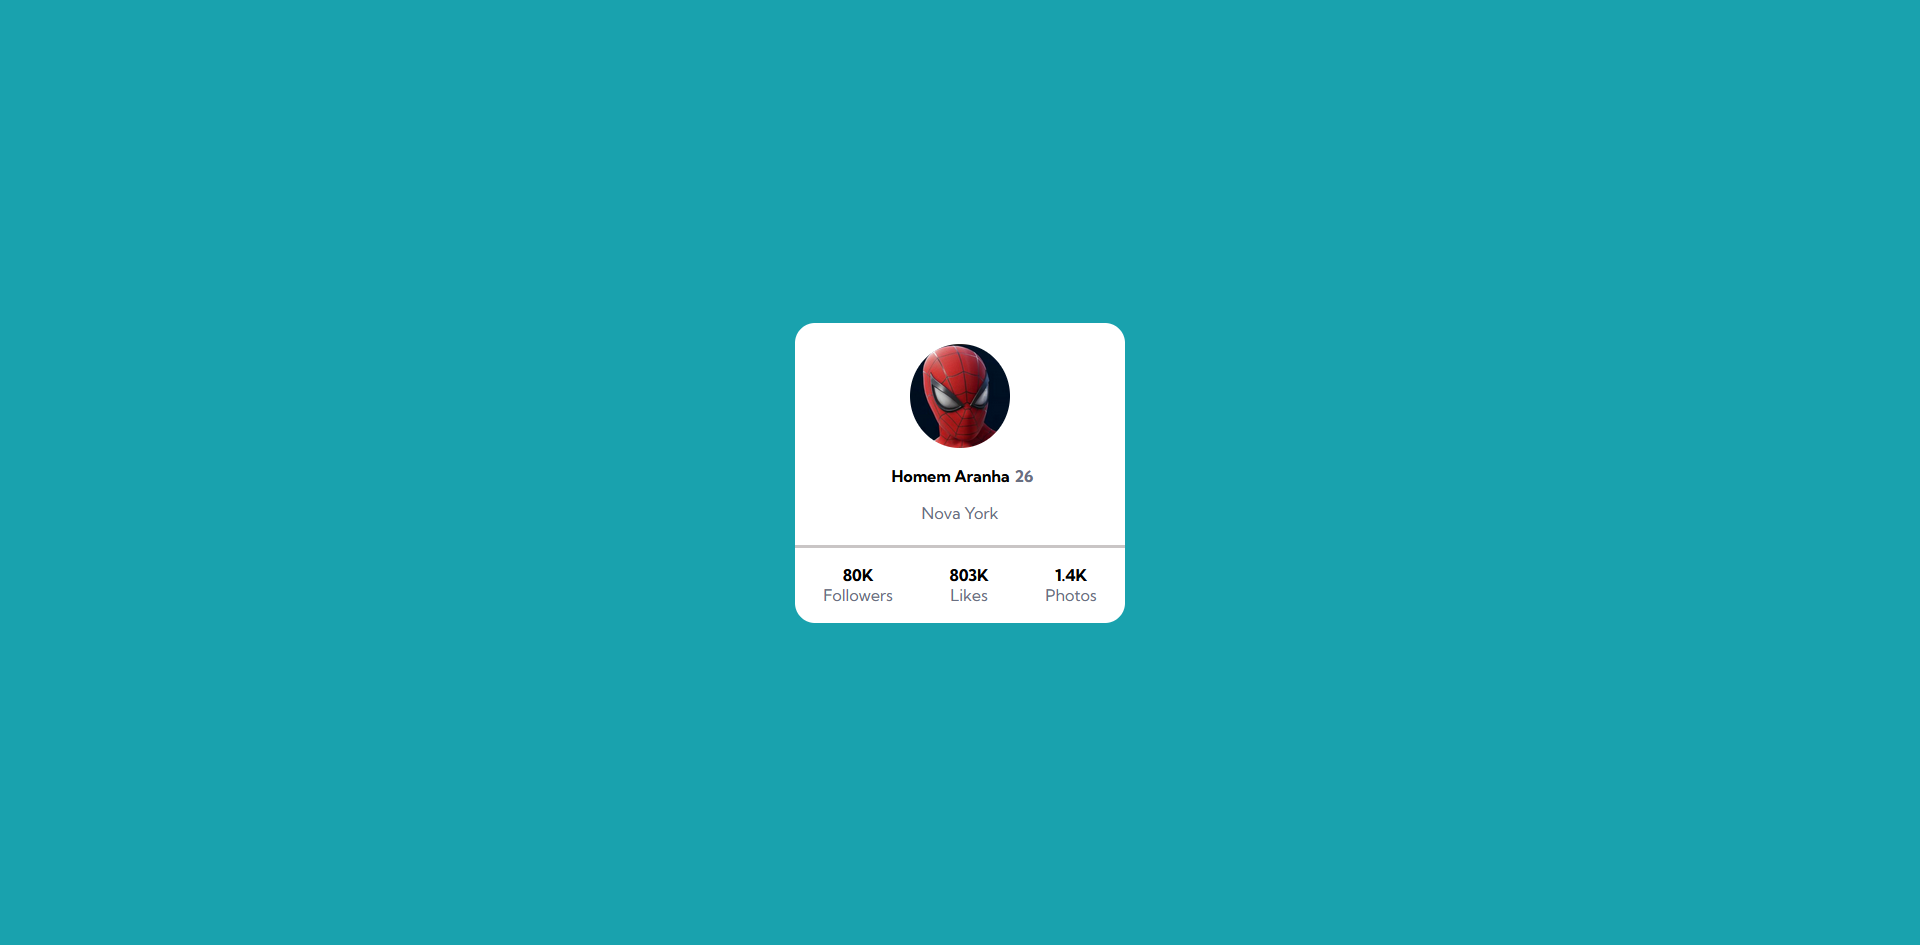
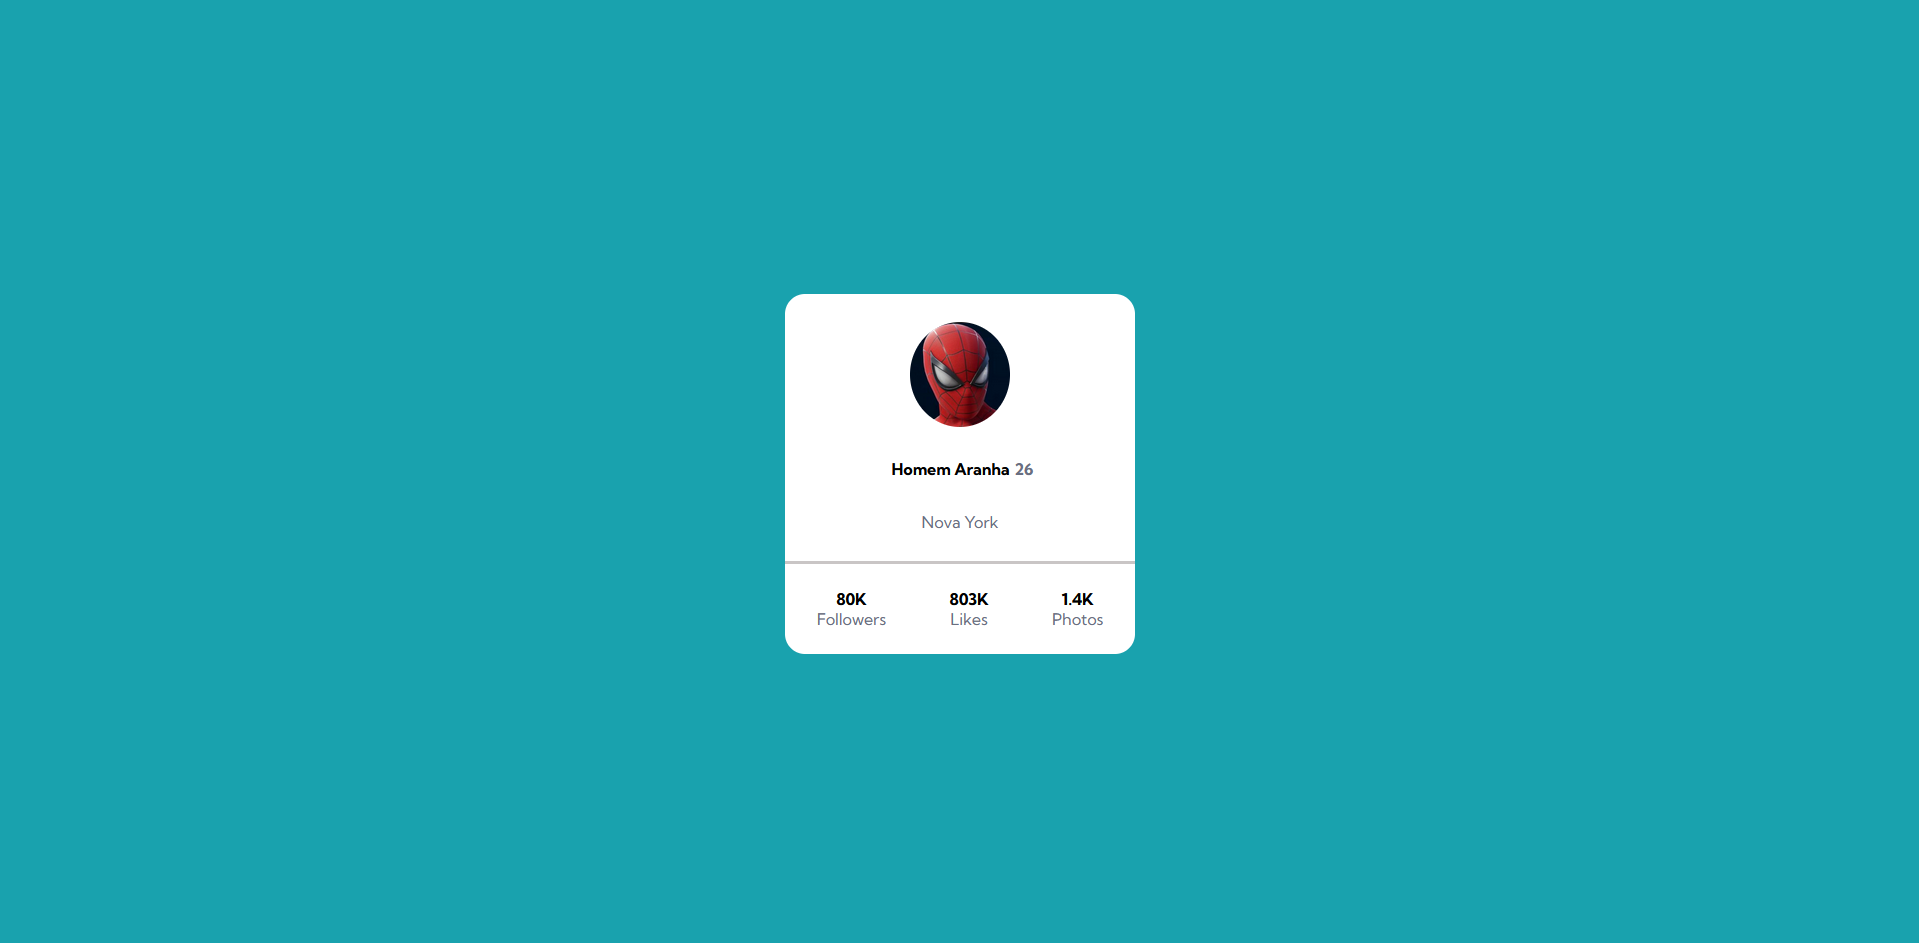
Alteração do tamanho do card, alteração das imagens e descrição da tarefa no README.

Changed region(s): [[0.3997, 0.3075, 0.6149, 0.7073]]

diff --git a/style.css b/style.css
@@ -18,8 +18,8 @@ body{
     display: flex;
     flex-direction: column;
     align-content: space-around;
-    width: 330px;
-    height: 300px;
+    width: 350px;
+    height: 360px;
     background-color: #fff;
     border-radius: 20px;
     margin: 20px;

diff --git a/index.html b/index.html
@@ -18,8 +18,6 @@
 
 <body>
 
-    <img src="Design/1-smartphone.png">
-
     <main class="container">
         <div class="profile-card">
             <div class="informacoes-pessoais">

diff --git a/README.md b/README.md
@@ -2,11 +2,10 @@
 
 Um projeto para testar o conhecimento de Git Bash, HTML e  CSS, principalmente Flexbox 🔥
 
-Descrição da tarefa: O principal desafio é criar um cartão que contenha as informações de perfil. Para aprimorar as habilidades de posicionamento de elementos usando flexbox.
-
 A vantagem do Flexbox é a adaptabilidade. Independente do tamanho da tela do usuário, os elementos serão mostrados de maneira correta.
 
-## Informações do Design a ser seguido
+## Descrição da tarefa
+O principal desafio é criar um cartão que contenha as informações de perfil. Para aprimorar as habilidades de posicionamento de elementos usando flexbox.
 
 ### Font family para ser usada no projeto:
 
@@ -46,7 +45,3 @@ A vantagem do Flexbox é a adaptabilidade. Independente do tamanho da tela do us
 git clone <https://github.com/cezarviana/exercicio-profile-card.git>
 ***
 
-2 - Acessar a pasta do projeto
-***
-cd exercicio-profile-card
-***
